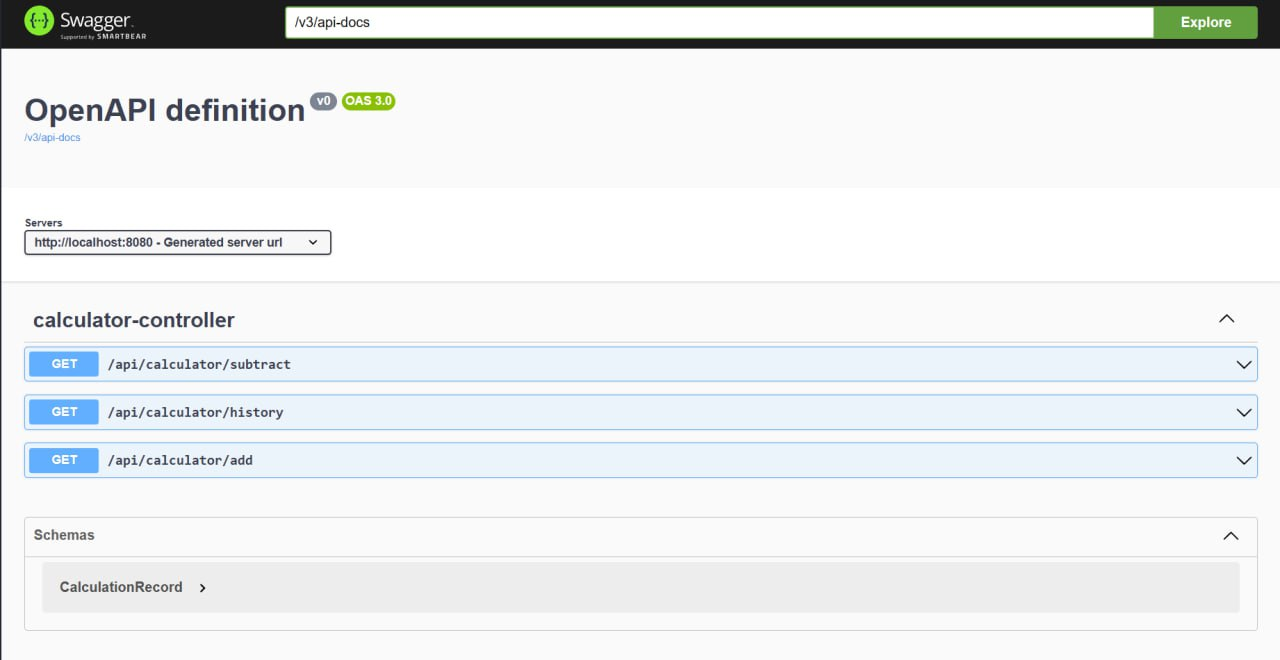
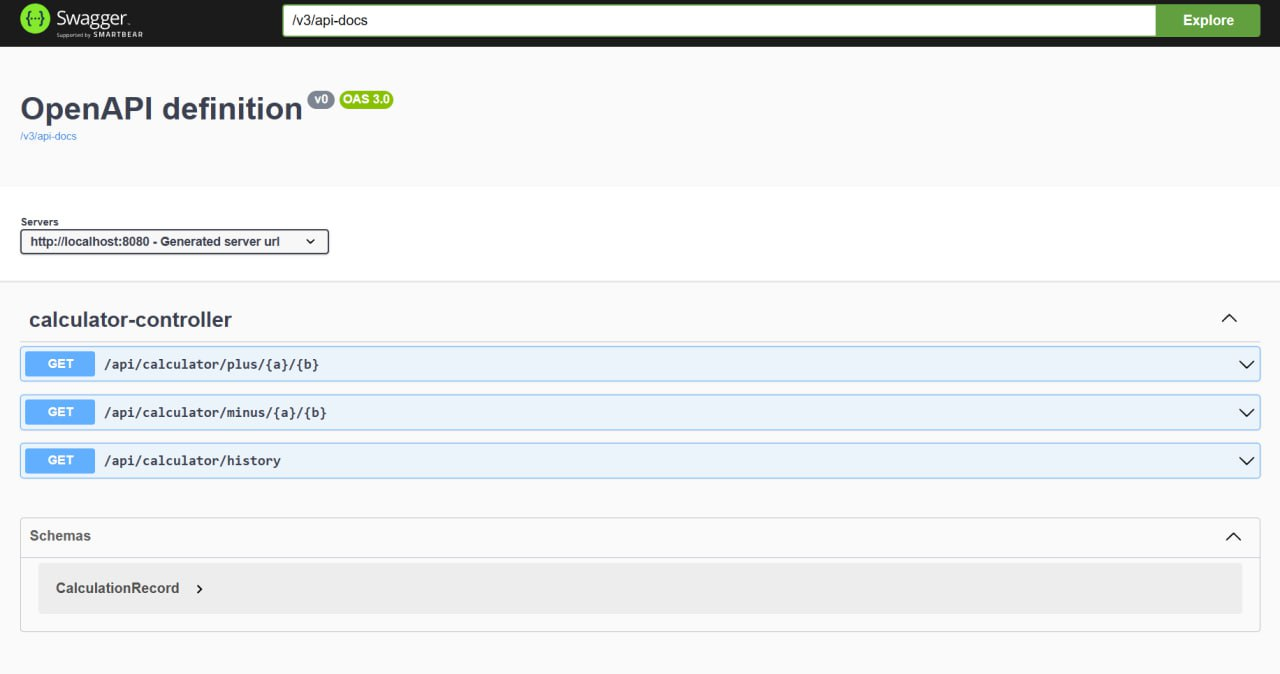
pravki

diff --git a/practice/src/test/java/ru/neoflex/practice/PracticeApplicationTests.java b/practice/src/test/java/ru/neoflex/practice/PracticeApplicationTests.java
@@ -18,33 +18,31 @@ class CalculatorControllerTest {
     private MockMvc mockMvc;
 
     @Test
-    void testAddEndpoint() throws Exception {
-        mockMvc.perform(get("/api/calculator/add")
-                        .param("a", "10")
-                        .param("b", "5")
+    void testPlusEndpoint() throws Exception {
+        mockMvc.perform(get("/api/calculator/plus/10/20")
                         .contentType(MediaType.APPLICATION_JSON))
                 .andExpect(status().isOk())
-                .andExpect(content().string("15.0"));
+                .andExpect(content().string("30"));
     }
 
     @Test
-    void testSubtractEndpoint() throws Exception {
-        mockMvc.perform(get("/api/calculator/subtract")
-                        .param("a", "10")
-                        .param("b", "3")
+    void testMinusEndpoint() throws Exception {
+        mockMvc.perform(get("/api/calculator/minus/50/20")
                         .contentType(MediaType.APPLICATION_JSON))
                 .andExpect(status().isOk())
-                .andExpect(content().string("7.0"));
+                .andExpect(content().string("30"));
     }
+
 
     @Test
     void testHistoryEndpoint() throws Exception {
-        mockMvc.perform(get("/api/calculator/add").param("a", "1").param("b", "2"));
+        // Создаем запись через новый метод
+        mockMvc.perform(get("/api/calculator/plus/1/2"));
 
         mockMvc.perform(get("/api/calculator/history")
                         .contentType(MediaType.APPLICATION_JSON))
                 .andExpect(status().isOk())
                 .andExpect(jsonPath("$").isArray())
-                .andExpect(jsonPath("$[0].operation").value("SUM"));
+                .andExpect(jsonPath("$[-1].operation").exists());
     }
 }

diff --git a/practice/src/main/java/ru/neoflex/practice/controller/controller/CalculatorController.java b/practice/src/main/java/ru/neoflex/practice/controller/controller/CalculatorController.java
@@ -1,7 +1,7 @@
-package ru.neoflex.practice.demo.controller;
+package ru.neoflex.practice.controller.controller;
 
 import ru.neoflex.practice.demo.model.CalculationRecord;
-import ru.neoflex.practice.demo.service.CalculatorService;
+import ru.neoflex.practice.controller.service.CalculatorService;
 import org.springframework.web.bind.annotation.*;
 
 import java.util.List;
@@ -16,14 +16,14 @@ public class CalculatorController {
         this.service = service;
     }
 
-    @GetMapping("/add")
-    public double add(@RequestParam double a, @RequestParam double b) {
-        return service.sum(a, b);
+    @GetMapping("/plus/{a}/{b}")
+    public Integer plus(@PathVariable("a") Integer a, @PathVariable("b") Integer b) {
+        return (int) service.sum(a, b);
     }
 
-    @GetMapping("/subtract")
-    public double subtract(@RequestParam double a, @RequestParam double b) {
-        return service.subtract(a, b);
+    @GetMapping("/minus/{a}/{b}")
+    public Integer minus(@PathVariable("a") Integer a, @PathVariable("b") Integer b) {
+        return (int) service.subtract(a, b);
     }
 
     @GetMapping("/history")

diff --git a/practice/src/main/java/ru/neoflex/practice/controller/service/CalculatorService.java b/practice/src/main/java/ru/neoflex/practice/controller/service/CalculatorService.java
@@ -1,7 +1,7 @@
-package ru.neoflex.practice.demo.service;
+package ru.neoflex.practice.controller.service;
 
 import ru.neoflex.practice.demo.model.CalculationRecord;
-import ru.neoflex.practice.demo.repository.CalculationRepository;
+import ru.neoflex.practice.controller.repository.CalculationRepository;
 import org.springframework.stereotype.Service;
 import java.util.List;
 

diff --git a/practice/src/main/java/ru/neoflex/practice/controller/repository/CalculationRepository.java b/practice/src/main/java/ru/neoflex/practice/controller/repository/CalculationRepository.java
@@ -1,4 +1,4 @@
-package ru.neoflex.practice.demo.repository;
+package ru.neoflex.practice.controller.repository;
 
 import ru.neoflex.practice.demo.model.CalculationRecord;
 import org.springframework.data.jpa.repository.JpaRepository;
